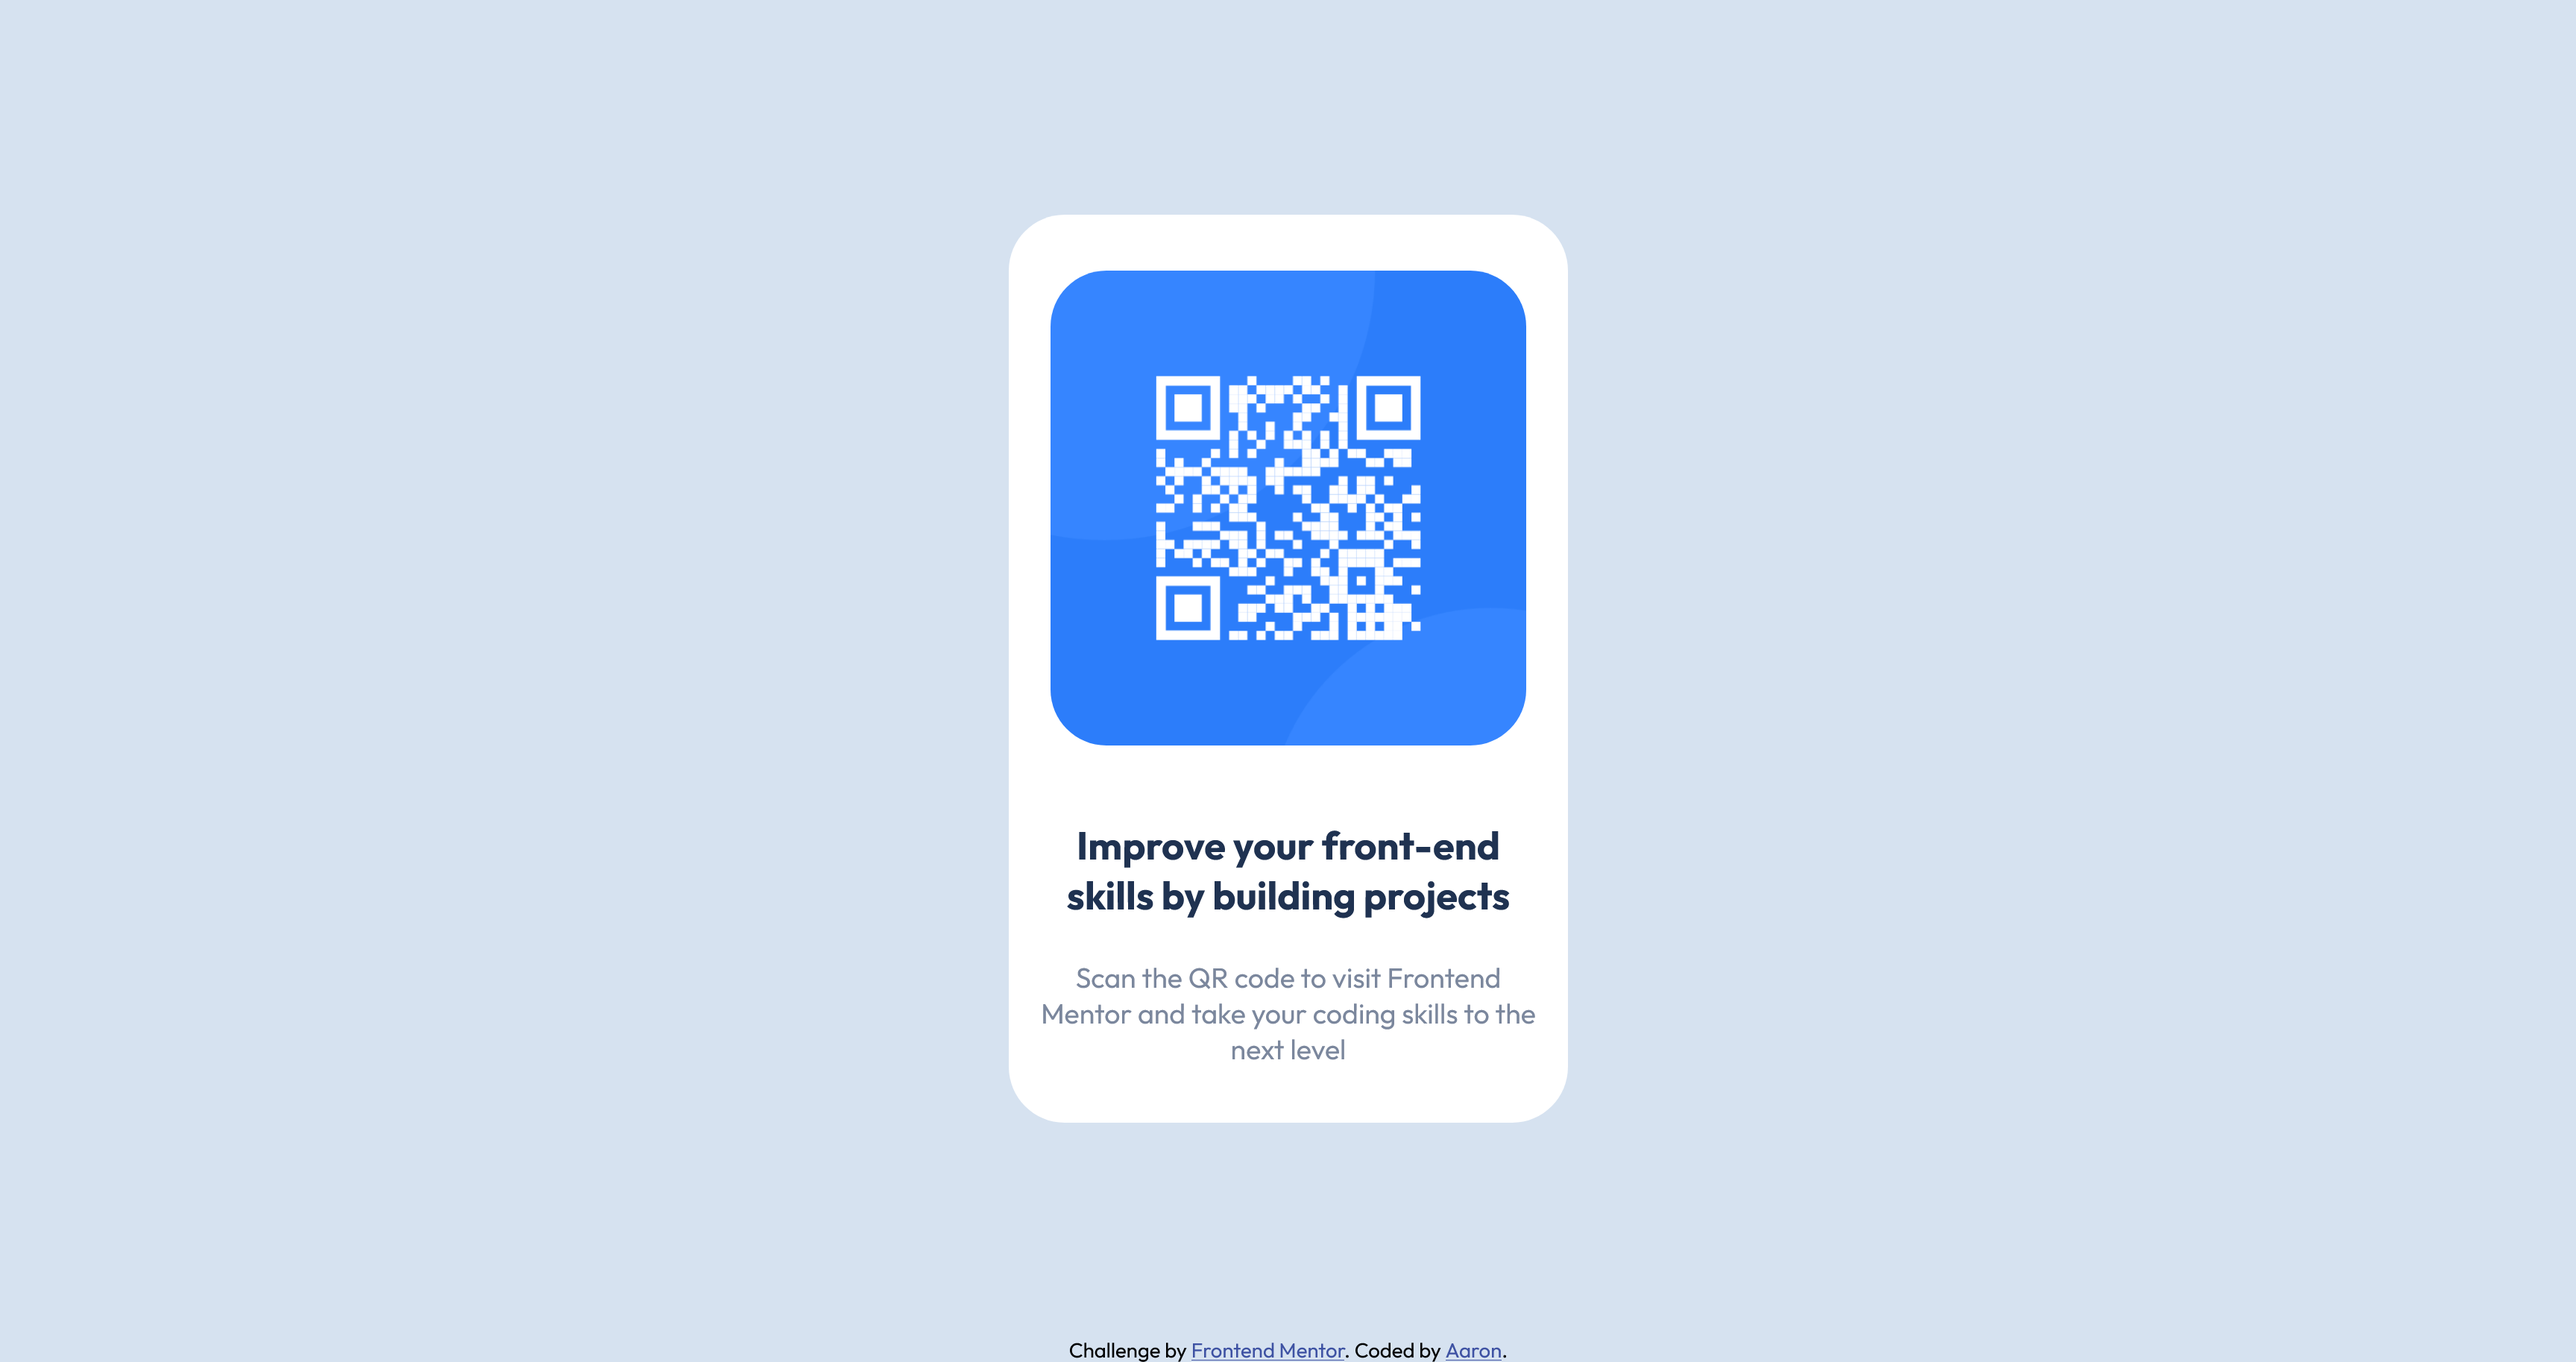
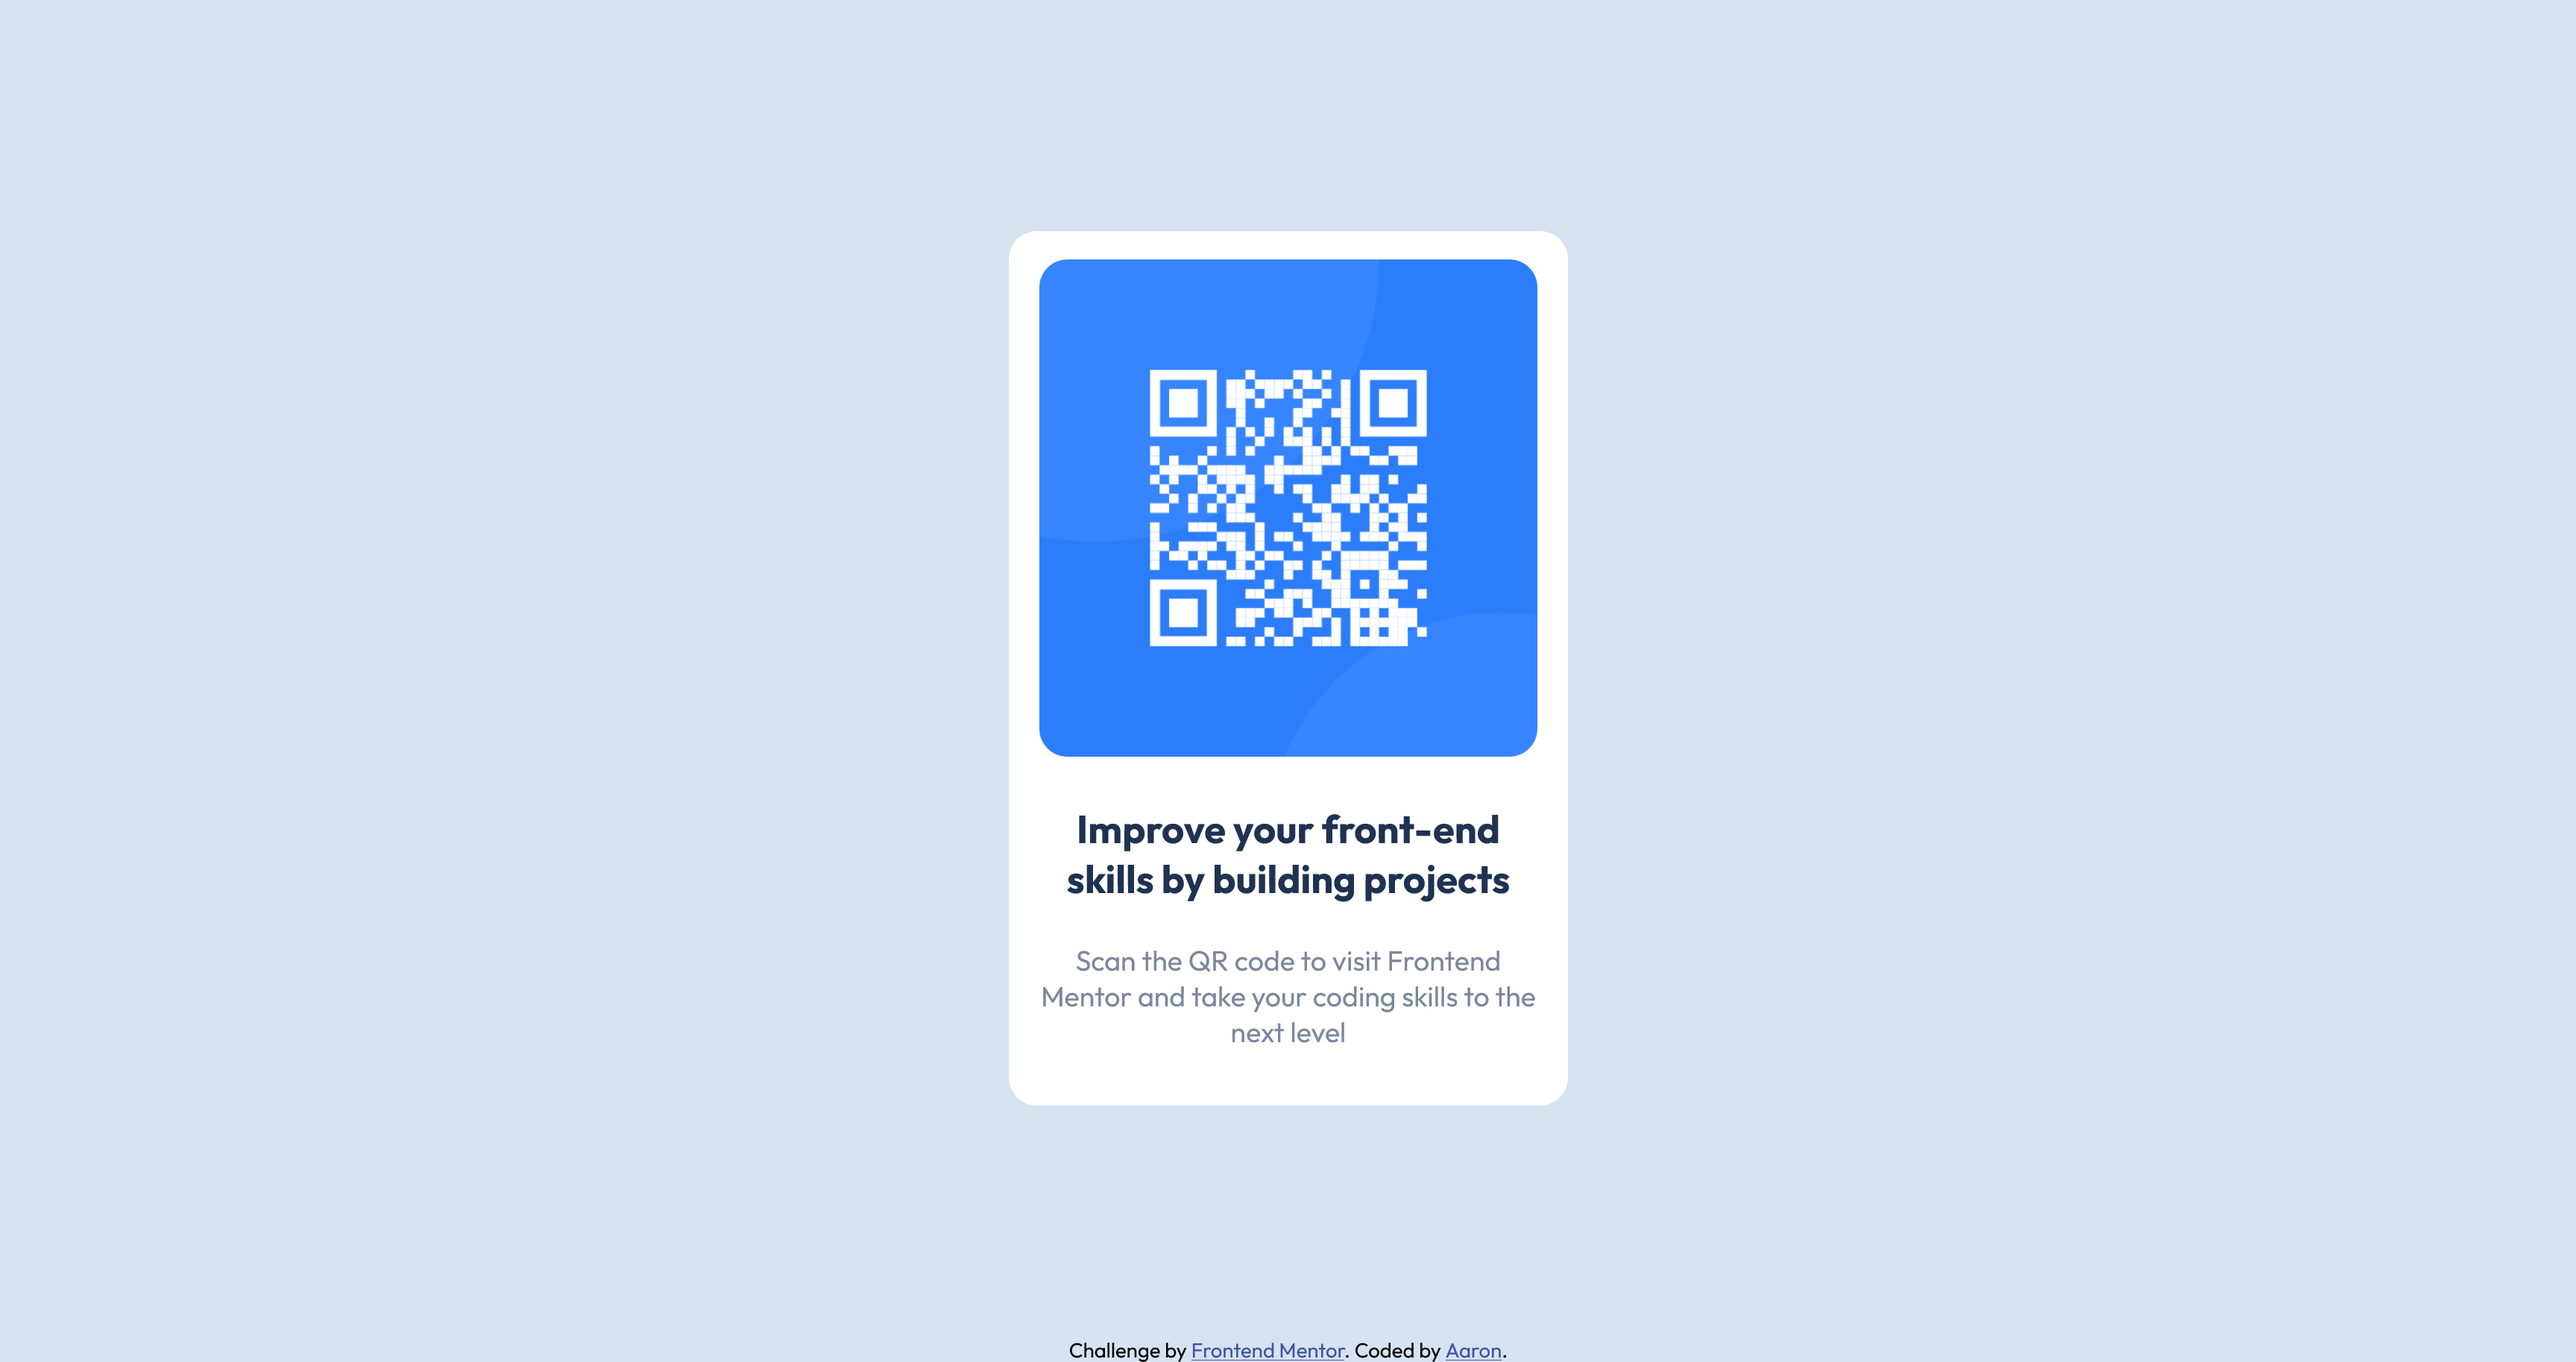
fix: to match design specs

Changed region(s): [[0.4026, 0.156, 0.6194, 0.5616], [0.4026, 0.5928, 0.5884, 0.78], [0.4026, 0.8112, 0.6194, 0.8424]]

diff --git a/qr-code/assets/css/style.css b/qr-code/assets/css/style.css
@@ -36,7 +36,7 @@ main {
   max-width: 20em;
   padding: 1em;
   text-align: center;
-  border-radius: 2em;
+  border-radius: 1em;
   box-shadow: outset 0 0 10px rgba(0, 0, 0, 0.1);
   font-weight: 400;
 }
@@ -52,13 +52,13 @@ main {
   font-size: 1em;
 }
 .card .qr-code {
-  padding: 0 0.5em;
-  margin: 1em auto;
+  padding: 0 0.1em;
+  margin: 0 auto;
   width: 100%;
 }
 .card .qr-code img {
   max-height: 300px;
-  border-radius: 2em;
+  border-radius: 1em;
   width: 100%;
 }
 @media screen and (max-width: 320px) {

diff --git a/qr-code/assets/css/input.scss b/qr-code/assets/css/input.scss
@@ -45,7 +45,7 @@ main {
   max-width: 20em;
   padding: 1em;
   text-align: center;
-  border-radius: 2em;
+  border-radius: 1em;
   box-shadow: outset 0 0 10px rgba(0, 0, 0, 0.1);
   font-weight: 400;
 
@@ -63,14 +63,14 @@ main {
   }
 
   .qr-code {
-    padding: 0 0.5em;
-    margin: 1em auto;
+    padding: 0 0.1em;
+    margin: 0 auto;
     width: 100%;
   }
 
   .qr-code img {
     max-height: 300px;
-    border-radius: 2em;
+    border-radius: 1em;
     width: 100%;
   }
 
